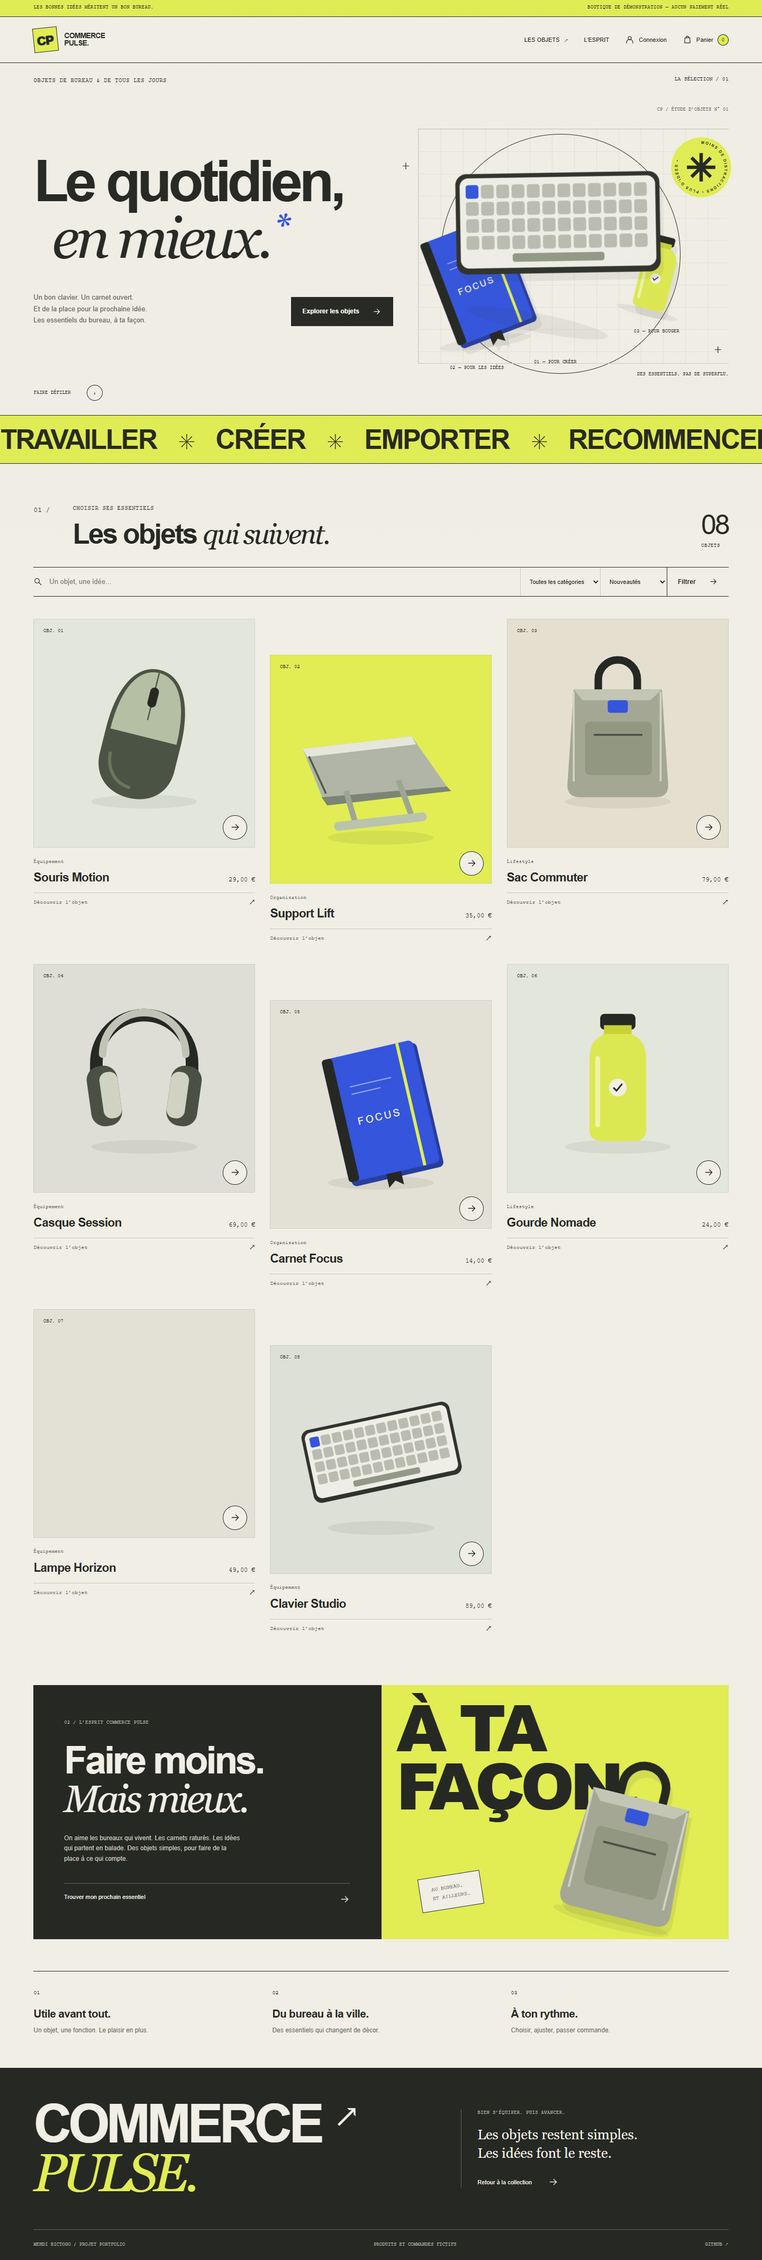
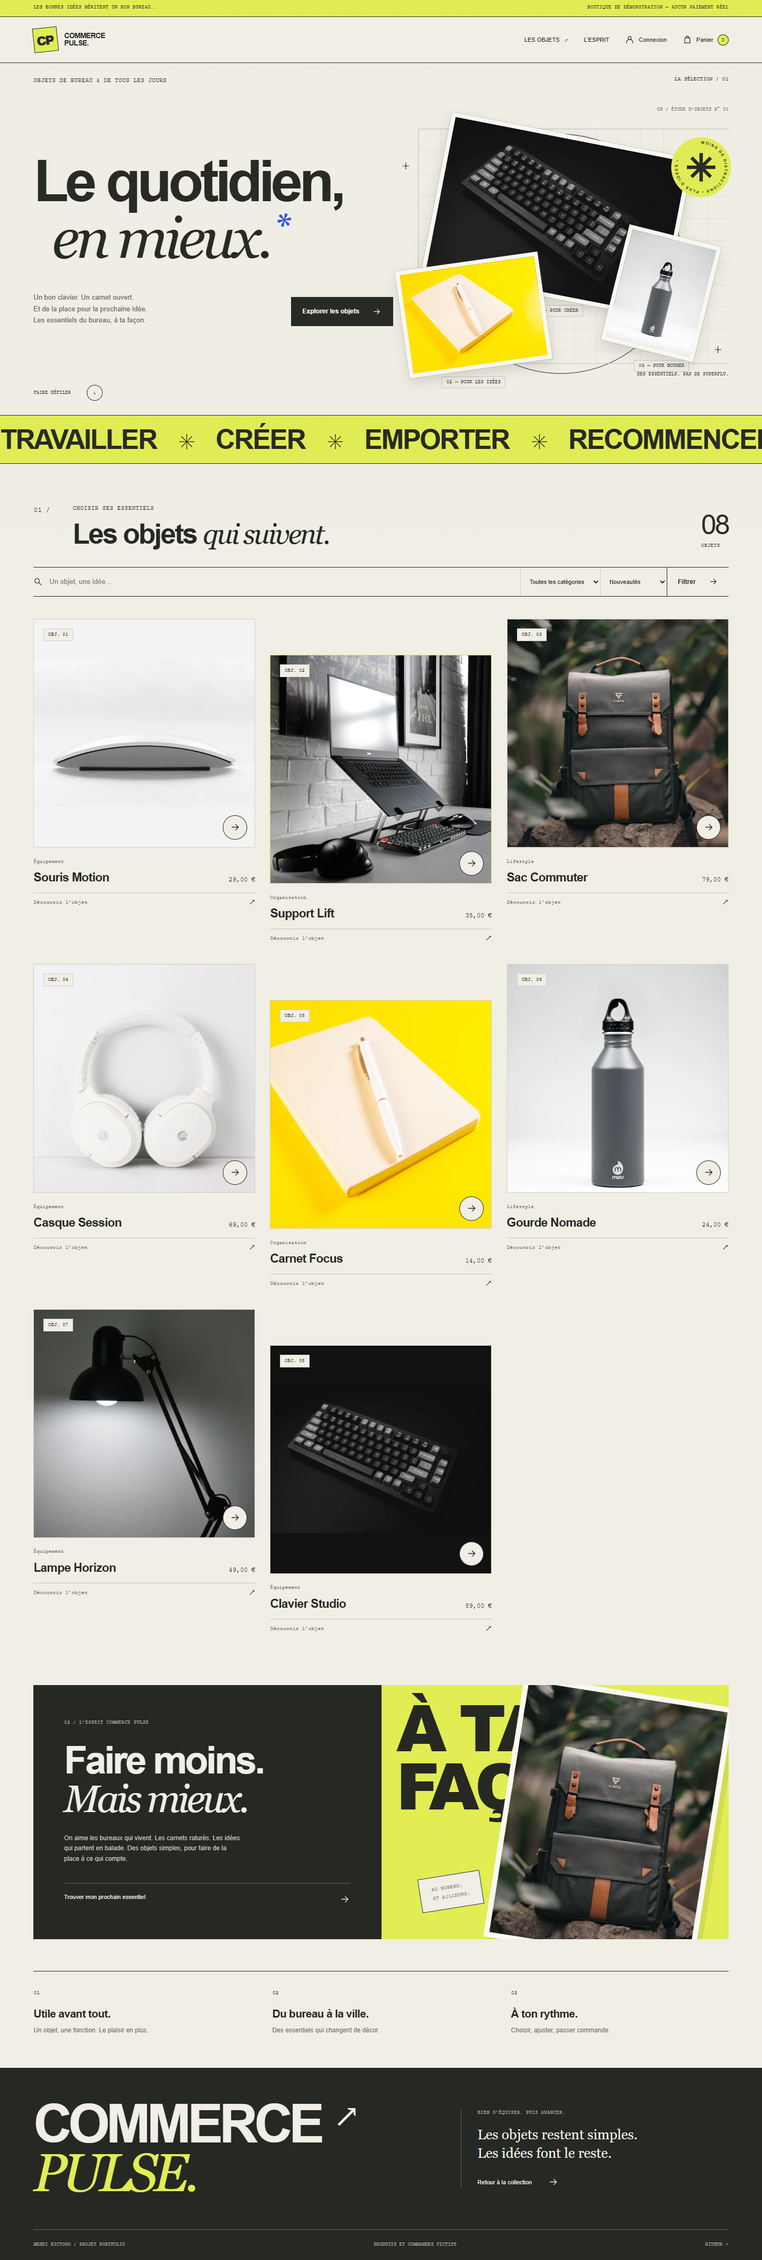
Replace product drawings with credited responsive photographs

diff --git a/public/assets/app.css b/public/assets/app.css
@@ -83,13 +83,16 @@ strong { font-weight: 600; }
 .hero-scene::before { content: ""; width: 73%; aspect-ratio: 1; border: 1px solid var(--ink); border-radius: 50%; position: absolute; left: 12%; top: 10%; z-index: 0; }
 .scene-coordinate { position: absolute; top: 0; right: 0; font: 9px var(--mono); color: var(--muted); }
 .scene-object { position: absolute; transform: translate3d(var(--shift-x, 0px), var(--shift-y, 0px), 0); transition: transform .25s ease-out; }
-.scene-object img { width: 100%; filter: drop-shadow(8px 13px 0 #26282312); }
-.scene-object > span { display: block; text-align: center; font: 9px var(--mono); }
-.scene-keyboard { width: 78%; left: 8%; top: -1%; z-index: 3; }
+.scene-object img { width: 100%; object-fit: cover; border: 8px solid var(--white); box-shadow: 0 10px 22px #26282326; outline: 1px solid #26282324; }
+.scene-object > span { display: block; width: fit-content; margin: 14px auto 0; padding: 5px 8px; background: var(--paper); border: 1px solid var(--line); text-align: center; font: 9px var(--mono); }
+.scene-keyboard { width: 75%; left: 10%; top: 10%; z-index: 3; }
+.scene-keyboard img { aspect-ratio: 3 / 2; }
 .scene-keyboard img { transform: rotate(11deg); animation: float-keyboard 9s ease-in-out infinite; }
-.scene-notebook { width: 50%; left: -2%; top: 35%; z-index: 2; }
+.scene-notebook { width: 44%; left: 0; top: 57%; z-index: 4; }
+.scene-notebook img { aspect-ratio: 4 / 3; }
 .scene-notebook img { transform: rotate(-8deg); animation: float-notebook 11s ease-in-out infinite; }
-.scene-bottle { width: 34%; left: 61%; top: 41%; z-index: 2; }
+.scene-bottle { width: 29%; left: 65%; top: 47%; z-index: 4; }
+.scene-bottle img { aspect-ratio: 4 / 5; }
 .scene-bottle img { transform: rotate(14deg); }
 .orbit-stamp { position: absolute; width: 116px; top: 11%; right: -1%; z-index: 4; animation: spin 28s linear infinite; }
 .hero-scene:hover .orbit-stamp { animation-play-state: paused; }
@@ -130,15 +133,19 @@ textarea { resize: vertical; }
 .product-card { min-width: 0; }
 .product-card:nth-child(3n+2) { margin-top: 68px; }
 .product-art { display: block; position: relative; background: #e5e3d9; aspect-ratio: 1 / 1.03; overflow: hidden; border: 1px solid #26282318; transform: perspective(800px) rotateX(var(--tilt-x, 0deg)) rotateY(var(--tilt-y, 0deg)); transition: transform .25s ease-out, background .3s; }
-.product-art img { width: 100%; height: 100%; object-fit: contain; padding: 30px; transition: transform .5s cubic-bezier(.2,.7,.2,1); }
-.product-art:hover img { transform: translateY(-9px) scale(1.035) rotate(-3deg); }
+.product-art img { width: 100%; height: 100%; object-fit: cover; padding: 0; transition: transform .5s cubic-bezier(.2,.7,.2,1); }
+.product-art:hover img { transform: scale(1.045); }
+.art-keyboard img { object-fit: contain; background: #101110; }
+.art-mouse img { object-fit: contain; background: #f3f3f3; }
+.art-notebook img { object-position: 43% center; }
+.art-stand img { object-position: 58% center; }
 .art-notebook, .art-lamp { background: #e3e1d5; }
 .art-bottle, .art-mouse { background: #e3e6da; }
 .art-keyboard { background: #dde0d7; }
 .art-stand { background: var(--acid); }
 .art-headphones { background: #deded7; }
 .art-bag { background: #e5dfd0; }
-.object-number { position: absolute; z-index: 2; top: 17px; left: 18px; font: 9px var(--mono); }
+.object-number { position: absolute; z-index: 2; top: 17px; left: 18px; padding: 6px 8px; background: var(--paper); border: 1px solid #26282324; font: 9px var(--mono); }
 .card-arrow { display: grid; place-items: center; position: absolute; width: 46px; height: 46px; bottom: 14px; right: 14px; border: 1px solid var(--ink); background: var(--paper); border-radius: 50%; transition: background .25s, transform .25s; }
 .product-art:hover .card-arrow { background: var(--acid); transform: rotate(-35deg); }
 .badge { position: absolute; top: 17px; right: 15px; background: var(--paper); padding: 5px 8px; font: 9px var(--mono); border: 1px solid var(--line); }
@@ -157,7 +164,7 @@ textarea { resize: vertical; }
 .studio-link { display: flex; justify-content: space-between; gap: 20px; border-top: 1px solid #f0eee54d; padding-top: 19px; margin-top: 35px; font-size: 11px; }
 .studio-art { position: relative; min-height: 480px; background: var(--acid); color: var(--ink); border-left: 1px solid var(--ink); overflow: hidden; }
 .studio-large-type { position: absolute; top: 22px; left: 28px; font-size: clamp(65px, 8.5vw, 135px); font-weight: 800; letter-spacing: -.07em; line-height: .9; }
-.studio-art img { position: absolute; width: 61%; right: -2%; bottom: -5%; transform: rotate(14deg); filter: drop-shadow(8px 13px 0 #26282315); }
+.studio-art img { position: absolute; width: 61%; aspect-ratio: 4 / 5; object-fit: cover; right: 4%; bottom: -6%; transform: rotate(9deg); border: 10px solid var(--white); box-shadow: 10px 13px 0 #26282315; }
 .studio-sticker { position: absolute; z-index: 2; bottom: 12%; left: 11%; background: var(--paper); border: 1px solid var(--ink); padding: 14px 22px; font: 10px/1.7 var(--mono); transform: rotate(-9deg); }
 .values-strip { display: grid; grid-template-columns: repeat(3, 1fr); border-top: 1px solid var(--ink); padding: 35px 0 60px; gap: 40px; }
 .value-number { font: 10px var(--mono); display: block; margin-bottom: 22px; }
@@ -177,8 +184,8 @@ textarea { resize: vertical; }
 /* Forms, product pages and checkout are part of the same visual language. */
 .back-link { display: inline-block; color: var(--muted); font: 10px var(--mono); margin: 35px 0; }
 .product-detail { display: grid; grid-template-columns: 1.15fr 1fr; gap: 65px; align-items: center; padding-bottom: 75px; }
-.product-detail .product-art img { padding: 55px; }
-.product-detail .product-art::after { content: "CP / L’OBJET"; position: absolute; top: 20px; left: 22px; font: 10px var(--mono); }
+.product-detail .product-art img { object-fit: contain; padding: 0; }
+.product-detail .product-art::after { content: "CP / L’OBJET"; position: absolute; top: 20px; left: 22px; padding: 7px 9px; background: var(--paper); border: 1px solid var(--line); font: 10px var(--mono); }
 .product-detail-copy h1 { font-size: clamp(38px, 4vw, 62px); margin-bottom: 20px; }
 .product-detail-copy > p { color: var(--muted); font-size: 13px; }
 .product-detail-copy .detail-price { color: var(--ink); font: 24px var(--mono); }
@@ -196,7 +203,7 @@ textarea { resize: vertical; }
 .cart-layout { display: grid; grid-template-columns: minmax(0, 1.8fr) minmax(280px, 1fr); gap: 55px; padding-bottom: 75px; align-items: start; }
 .cart-item { display: grid; grid-template-columns: 110px 1fr auto; gap: 22px; padding: 25px 0; border-bottom: 1px solid var(--line); align-items: start; }
 .cart-item:first-child { padding-top: 0; }
-.cart-art img { width: 110px; padding: 12px; }
+.cart-art img { width: 110px; aspect-ratio: 1; object-fit: cover; padding: 0; border: 1px solid var(--line); }
 .cart-item .eyebrow { font-size: 9px; margin: 3px 0 9px; }
 .cart-item h3 { margin-bottom: 10px; font-size: 21px; }
 .cart-item > strong { font: 13px var(--mono); padding-top: 25px; }
@@ -217,7 +224,7 @@ textarea { resize: vertical; }
 .auth-intro h1 em { color: var(--blue); }
 .auth-intro p { position: relative; z-index: 2; font-size: 12px; }
 .auth-object { position: absolute; width: 53%; right: -4%; bottom: 60px; transform: translate3d(var(--shift-x, 0px), var(--shift-y, 0px), 0); transition: transform .25s ease-out; }
-.auth-object img { transform: rotate(12deg); filter: drop-shadow(10px 13px 0 #26282315); }
+.auth-object img { aspect-ratio: 4 / 3; object-fit: cover; transform: rotate(12deg); border: 8px solid var(--white); box-shadow: 10px 13px 0 #26282315; }
 .auth-intro::after { content: ""; position: absolute; bottom: 100px; left: 40px; width: 65%; aspect-ratio: 1; border: 1px solid #26282380; border-radius: 50%; }
 .auth-poster-foot { position: absolute; bottom: 25px; left: 43px; right: 43px; display: flex; justify-content: space-between; font: 8px var(--mono); border-top: 1px solid var(--ink); padding-top: 18px; }
 .auth-form { padding: 55px clamp(25px, 4.2vw, 68px); align-self: center; }
@@ -302,7 +309,7 @@ table a { text-decoration: underline; text-underline-offset: 3px; }
 .stock-row:last-of-type { margin-bottom: 25px; }
 .stock-row strong { font: 10px var(--mono); white-space: nowrap; }
 .table-product { display: flex; align-items: center; gap: 15px; }
-.table-product img { width: 45px; height: 45px; padding: 3px; background: var(--paper); }
+.table-product img { width: 45px; height: 45px; object-fit: cover; padding: 0; border: 1px solid var(--line); background: var(--paper); }
 .admin-content .back-link { margin: 0 0 25px; }
 .form-panel { max-width: 850px; }
 .form-panel input, .form-panel textarea { margin-bottom: 25px; }
@@ -374,7 +381,7 @@ table a { text-decoration: underline; text-underline-offset: 3px; }
   .orbit-stamp { width: 78px; }
   .product-meta > div { display: block; }
   .product-meta strong { display: block; margin-bottom: 16px; }
-  .product-art img { padding: 22px; }
+  .product-art img { padding: 0; }
   .product-card:nth-child(3n+2) { margin-top: 45px; }
   .studio-copy h2 { font-size: 45px; }
   .studio-art { min-height: 425px; }
@@ -390,7 +397,7 @@ table a { text-decoration: underline; text-underline-offset: 3px; }
   .cart-layout { grid-template-columns: 1fr; gap: 35px; }
   .order-summary { position: static; }
   .product-detail { gap: 35px; }
-  .product-detail .product-art img { padding: 30px; }
+  .product-detail .product-art img { padding: 0; }
   .sidebar { width: 195px; padding: 27px 12px; }
   .sidebar .brand-copy { font-size: 12px; }
   .sidebar > .eyebrow { font-size: 7px; }
@@ -446,7 +453,7 @@ table a { text-decoration: underline; text-underline-offset: 3px; }
   .product-card:nth-child(3n+2) { margin-top: 0; }
   .product-card:nth-child(2n) { margin-top: 38px; }
   .product-art { aspect-ratio: 1 / 1.18; }
-  .product-art img { padding: 13px 4px; }
+  .product-art img { padding: 0; }
   .object-number { font-size: 7px; left: 10px; top: 12px; }
   .card-arrow { width: 30px; height: 30px; bottom: 9px; right: 9px; }
   .card-arrow .icon { width: 14px; }
@@ -478,13 +485,13 @@ table a { text-decoration: underline; text-underline-offset: 3px; }
   .footer-bottom > span:nth-child(2) { order: 3; flex-basis: 100%; }
   .product-detail { grid-template-columns: 1fr; gap: 28px; padding-bottom: 45px; }
   .product-detail .product-art { aspect-ratio: 1; }
-  .product-detail .product-art img { padding: 35px; }
+  .product-detail .product-art img { padding: 0; }
   .product-detail-copy h1 { font-size: 42px; }
   .page-heading { padding-top: 38px; }
   .page-heading h1 { font-size: 40px; overflow-wrap: anywhere; }
   .cart-layout { gap: 30px; padding-bottom: 45px; }
   .cart-item { grid-template-columns: 75px 1fr; gap: 15px; }
-  .cart-art img { width: 75px; padding: 5px; }
+  .cart-art img { width: 75px; padding: 0; }
   .cart-item h3 { font-size: 19px; }
   .cart-item > strong { grid-column: 2; padding-top: 0; }
   .quantity-form { gap: 10px; }

diff --git a/views/catalog.php b/views/catalog.php
@@ -10,9 +10,9 @@
     <div class="hero-scene" data-scene aria-label="Composition de trois objets de bureau : clavier, carnet et gourde">
         <div class="scene-grid" aria-hidden="true"></div>
         <span class="scene-coordinate" aria-hidden="true">CP / ÉTUDE D’OBJETS N° 01</span>
-        <div class="scene-object scene-keyboard" data-depth="1.1"><img src="/assets/products/keyboard.svg" alt="Clavier mécanique"><span>01 — POUR CRÉER</span></div>
-        <div class="scene-object scene-notebook" data-depth="-0.7"><img src="/assets/products/notebook.svg" alt="Carnet de notes"><span>02 — POUR LES IDÉES</span></div>
-        <div class="scene-object scene-bottle" data-depth="0.5"><img src="/assets/products/bottle.svg" alt="Gourde isotherme"><span>03 — POUR BOUGER</span></div>
+        <div class="scene-object scene-keyboard" data-depth="1.1"><img src="/assets/products/photos/keyboard-small.webp" alt="Clavier mécanique"><span>01 — POUR CRÉER</span></div>
+        <div class="scene-object scene-notebook" data-depth="-0.7"><img src="/assets/products/photos/notebook-small.webp" alt="Carnet de notes"><span>02 — POUR LES IDÉES</span></div>
+        <div class="scene-object scene-bottle" data-depth="0.5"><img src="/assets/products/photos/bottle-small.webp" alt="Gourde isotherme"><span>03 — POUR BOUGER</span></div>
         <img class="orbit-stamp" src="/assets/stamp.svg" alt="Moins de distractions, plus d’idées">
         <span class="scene-cross cross-one" aria-hidden="true">+</span><span class="scene-cross cross-two" aria-hidden="true">+</span>
         <span class="scene-measure" aria-hidden="true">DES ESSENTIELS. PAS DE SUPERFLU.</span>
@@ -40,7 +40,7 @@
         <article class="product-card" data-reveal>
             <a class="product-art art-<?= e($p['illustration']) ?>" href="/products/<?= (int)$p['id'] ?>" data-tilt>
                 <span class="object-number" aria-hidden="true">OBJ. <?= str_pad((string)(($page-1)*12+$index+1), 2, '0', STR_PAD_LEFT) ?></span>
-                <img loading="lazy" src="/assets/products/<?= e($p['illustration']) ?>.svg" alt="<?= e($p['name']) ?>">
+                <img loading="lazy" decoding="async" src="<?= e(product_photo($p['illustration'], true)) ?>" srcset="<?= e(product_photo($p['illustration'], true)) ?> 640w, <?= e(product_photo($p['illustration'])) ?> 1200w" sizes="(max-width: 650px) 45vw, (max-width: 1440px) 30vw, 450px" alt="<?= e($p['name']) ?>">
                 <?php if ((int)$p['stock']===0): ?><span class="badge">Épuisé</span><?php elseif ((int)$p['stock']<10): ?><span class="badge">Dernières pièces</span><?php endif; ?>
                 <span class="card-arrow" aria-hidden="true"><?= icon('arrow') ?></span>
             </a>
@@ -54,6 +54,6 @@
 
 <section id="studio" class="studio-note" aria-labelledby="studio-title" data-reveal>
     <div class="studio-copy"><span class="eyebrow">02 / L’ESPRIT COMMERCE PULSE</span><h2 id="studio-title">Faire moins.<br><em>Mais mieux.</em></h2><p>On aime les bureaux qui vivent. Les carnets raturés. Les idées qui partent en balade. Des objets simples, pour faire de la place à ce qui compte.</p><a class="studio-link" href="#collection">Trouver mon prochain essentiel <?= icon('arrow') ?></a></div>
-    <div class="studio-art" aria-hidden="true"><span class="studio-large-type">À TA<br>FAÇON.</span><img src="/assets/products/bag.svg" alt=""><span class="studio-sticker">AU BUREAU.<br>ET AILLEURS.</span></div>
+    <div class="studio-art" aria-hidden="true"><span class="studio-large-type">À TA<br>FAÇON.</span><img src="/assets/products/photos/bag-small.webp" alt=""><span class="studio-sticker">AU BUREAU.<br>ET AILLEURS.</span></div>
 </section>
 <section class="values-strip" aria-label="L’esprit de la collection"><div><span class="value-number">01</span><h3>Utile avant tout.</h3><p>Un objet, une fonction. Le plaisir en plus.</p></div><div><span class="value-number">02</span><h3>Du bureau à la ville.</h3><p>Des essentiels qui changent de décor.</p></div><div><span class="value-number">03</span><h3>À ton rythme.</h3><p>Choisir, ajuster, passer commande.</p></div></section>

diff --git a/app/helpers.php b/app/helpers.php
@@ -3,6 +3,10 @@ declare(strict_types=1);
 
 function env(string $key, string $default = ''): string { $value = getenv($key); return $value === false ? $default : $value; }
 function e(mixed $value): string { return htmlspecialchars((string)$value, ENT_QUOTES | ENT_SUBSTITUTE, 'UTF-8'); }
+function product_photo(string $key, bool $small = false): string {
+    if (!in_array($key, ['keyboard','lamp','bottle','notebook','headphones','bag','stand','mouse'], true)) $key = 'notebook';
+    return '/assets/products/photos/' . $key . ($small ? '-small' : '') . '.webp';
+}
 function euros(int $cents): string { return number_format($cents / 100, 2, ',', ' ') . ' €'; }
 function csrf_field(): string { return '<input type="hidden" name="_csrf" value="' . e(App\Core\Session::csrf()) . '">'; }
 function selected(mixed $a, mixed $b): string { return (string)$a === (string)$b ? 'selected' : ''; }

diff --git a/views/auth.php b/views/auth.php
@@ -3,7 +3,7 @@
         <span class="eyebrow">CP / L’ESPACE PERSONNEL</span>
         <h1 data-reveal><?= $register?'Les bonnes idées<br>commencent<br><em>ici.</em>':'On reprend<br>là où tu<br><em>en étais.</em>' ?></h1>
         <p>Un espace pour tes objets, tes commandes<br>et la suite de ta journée.</p>
-        <div class="auth-object" data-depth="0.7"><img src="/assets/products/notebook.svg" alt="Carnet bleu pour noter ses idées"></div>
+        <div class="auth-object" data-depth="0.7"><img src="/assets/products/photos/notebook-small.webp" alt="Carnet et stylo sur fond jaune"></div>
         <span class="auth-poster-foot">COMMERCE PULSE <span>FAIS DE LA PLACE.</span></span>
     </div>
     <div class="auth-form" data-reveal>

diff --git a/views/product.php b/views/product.php
@@ -1,7 +1,7 @@
 <a class="back-link" href="/#collection">← Retour à la collection</a>
 <section class="product-detail">
 <div class="product-art art-<?= e($product['illustration']) ?>">
-<img src="/assets/products/<?= e($product['illustration']) ?>.svg" alt="<?= e($product['name']) ?>">
+<img src="<?= e(product_photo($product['illustration'])) ?>" srcset="<?= e(product_photo($product['illustration'], true)) ?> 640w, <?= e(product_photo($product['illustration'])) ?> 1200w" sizes="(max-width: 650px) 90vw, 55vw" alt="<?= e($product['name']) ?>">
 </div>
 <div class="product-detail-copy">
 <span class="eyebrow">

diff --git a/views/layout.php b/views/layout.php
@@ -6,7 +6,7 @@
     <meta name="theme-color" content="#eceadf">
     <title><?= e($title ?? 'Commerce Pulse') ?> · Commerce Pulse</title>
     <link rel="icon" href="/assets/favicon.svg" type="image/svg+xml">
-    <link rel="stylesheet" href="/assets/app.css?v=2"><script src="/assets/app.js?v=2" defer></script>
+    <link rel="stylesheet" href="/assets/app.css?v=3"><script src="/assets/app.js?v=2" defer></script>
 </head>
 <body class="<?= $admin ? 'admin-shell' : 'shop-shell' ?>">
 <a href="#main" class="skip-link">Aller au contenu</a><div class="reading-progress" aria-hidden="true"></div>

diff --git a/views/admin/product-form.php b/views/admin/product-form.php
@@ -41,7 +41,7 @@
 </select>
 </div>
 <div>
-<label for="illustration">Illustration</label>
+<label for="illustration">Photo du produit</label>
 <select id="illustration" name="illustration">
 <?php foreach (['keyboard'=>'Clavier','lamp'=>'Lampe','bottle'=>'Gourde','notebook'=>'Carnet','headphones'=>'Casque','bag'=>'Sac','stand'=>'Support','mouse'=>'Souris'] as $v=>$l): ?>
 <option value="<?= $v ?>" <?= selected($product['illustration'] ?? '',$v) ?>>

diff --git a/views/cart.php b/views/cart.php
@@ -15,7 +15,7 @@
 <?php foreach ($items as $item): ?>
 <article class="cart-item">
 <a class="cart-art art-<?= e($item['illustration']) ?>" href="/products/<?= (int)$item['id'] ?>">
-<img src="/assets/products/<?= e($item['illustration']) ?>.svg" alt="">
+<img src="<?= e(product_photo($item['illustration'], true)) ?>" alt="">
 </a>
 <div>
 <span class="eyebrow">

diff --git a/views/admin/products.php b/views/admin/products.php
@@ -30,7 +30,7 @@
 <tr>
 <td>
 <div class="table-product">
-<img src="/assets/products/<?= e($p['illustration']) ?>.svg" alt="">
+<img src="<?= e(product_photo($p['illustration'], true)) ?>" alt="">
 <strong>
 <?= e($p['name']) ?>
 </strong>

diff --git a/docs/DESIGN.md b/docs/DESIGN.md
@@ -6,13 +6,15 @@ Commerce Pulse présente des objets de bureau. L’interface reprend les codes d
 
 - Papier `#f0eee5`, encre `#262823`, accent jaune `#e1ed53`, bleu cobalt `#3455dc`.
 - Sans-serif pour les titres et la navigation ; serif italique pour les accroches ; monospace pour les repères de catalogue.
-- Illustration SVG locale pour chaque produit, texture légère et tampon circulaire.
+- Photos réelles de chaque produit, conservées localement en WebP, texture légère et tampon circulaire en SVG. Les auteurs et sources sont dans [les crédits](../CREDITS.md).
 - Grille de trois colonnes décalée sur ordinateur, puis deux colonnes sur mobile. Formulaire d’inscription associé à une affiche jaune et bleue.
 - Administration dans la même palette, avec priorité à la lisibilité des chiffres et aux tableaux défilants sur petit écran.
 
 ## Effets et usages
 
 Le pointeur déplace légèrement les objets du visuel d’accueil. Les cartes produit prennent au maximum 2,5 degrés de relief par axe. Le bouton principal réagit au survol, les boutons affichent une onde au clic, et les sections apparaissent une seule fois quand elles entrent dans la fenêtre.
+
+Les photographies de l’accueil ressemblent à des tirages superposés, avec cadre crème et ombre. Les fiches produit affichent le cliché complet ; les cartes et miniatures utilisent un cadrage propre à l’espace disponible. Les repères de catalogue reposent sur un fond clair pour rester lisibles sur les photos sombres. Le catalogue utilise `srcset` pour choisir entre 640 et 1200 pixels et `loading="lazy"` pour les images situées plus bas.
 
 Le ruban de texte et le tampon sont décoratifs. Les textes dupliqués et les illustrations décoratives sont masqués aux lecteurs d’écran. Les champs conservent des labels, les boutons de visibilité du mot de passe ont un état explicite et les liens du menu mobile gardent leur nom accessible.
 

diff --git a/CREDITS.md b/CREDITS.md
@@ -1,0 +1,19 @@
+# Crédits photographiques
+
+Les huit photographies proviennent d’Unsplash et sont utilisées sous la [licence Unsplash](https://unsplash.com/license). Elles conservent cette licence ; la licence MIT du code ne s’applique pas aux photos.
+
+- Clavier : [Daniel Maquiling](https://unsplash.com/photos/a-computer-keyboard-sitting-on-top-of-a-black-table-C2Q9pJqE98A).
+- Carnet : [Sasun Bughdaryan](https://unsplash.com/photos/a-white-pen-rests-on-a-closed-notebook-qvscqcd2t7c).
+- Gourde : [Karl Köhler](https://unsplash.com/photos/black-mizu-stainless-steel-tumbler-dGIEMeN2MV8).
+- Lampe : [Luigy Ghost](https://unsplash.com/photos/a-black-desk-lamp-illuminates-a-wall-fOgLNspEm5I).
+- Casque : [VCOM](https://unsplash.com/photos/white-headphones-sit-against-a-white-background-C0k_JxvcilU).
+- Sac : [Jakob Owens](https://unsplash.com/photos/selective-focus-photography-of-black-and-brown-leather-backpack-on-rock-BmH09wAkJa8).
+- Support d’ordinateur : [Riekus](https://unsplash.com/photos/wLXk9eHYE0A).
+- Souris : [Fer Troulik](https://unsplash.com/photos/a-white-computer-mouse-on-a-white-background-LP3nV76f2TA).
+
+Les visuels illustrent les produits fictifs de la démonstration. Les noms et les prix de Commerce Pulse ne représentent pas une offre de vente des produits photographiés et n’impliquent aucun partenariat avec les marques visibles.
+
+Les fichiers WebP sont conservés dans `public/assets/products/photos/`, en versions 640 et 1200 pixels. Ils sont servis par l’application locale. Le catalogue choisit la définition adaptée à l’écran et charge les photos au défilement. Aucune image n’a été générée par IA.
+
+Les sources exactes et la date de récupération sont consignées dans [photo-sources.json](docs/photo-sources.json). Les SVG décoratifs et les anciennes illustrations du projet restent des créations locales.
+
